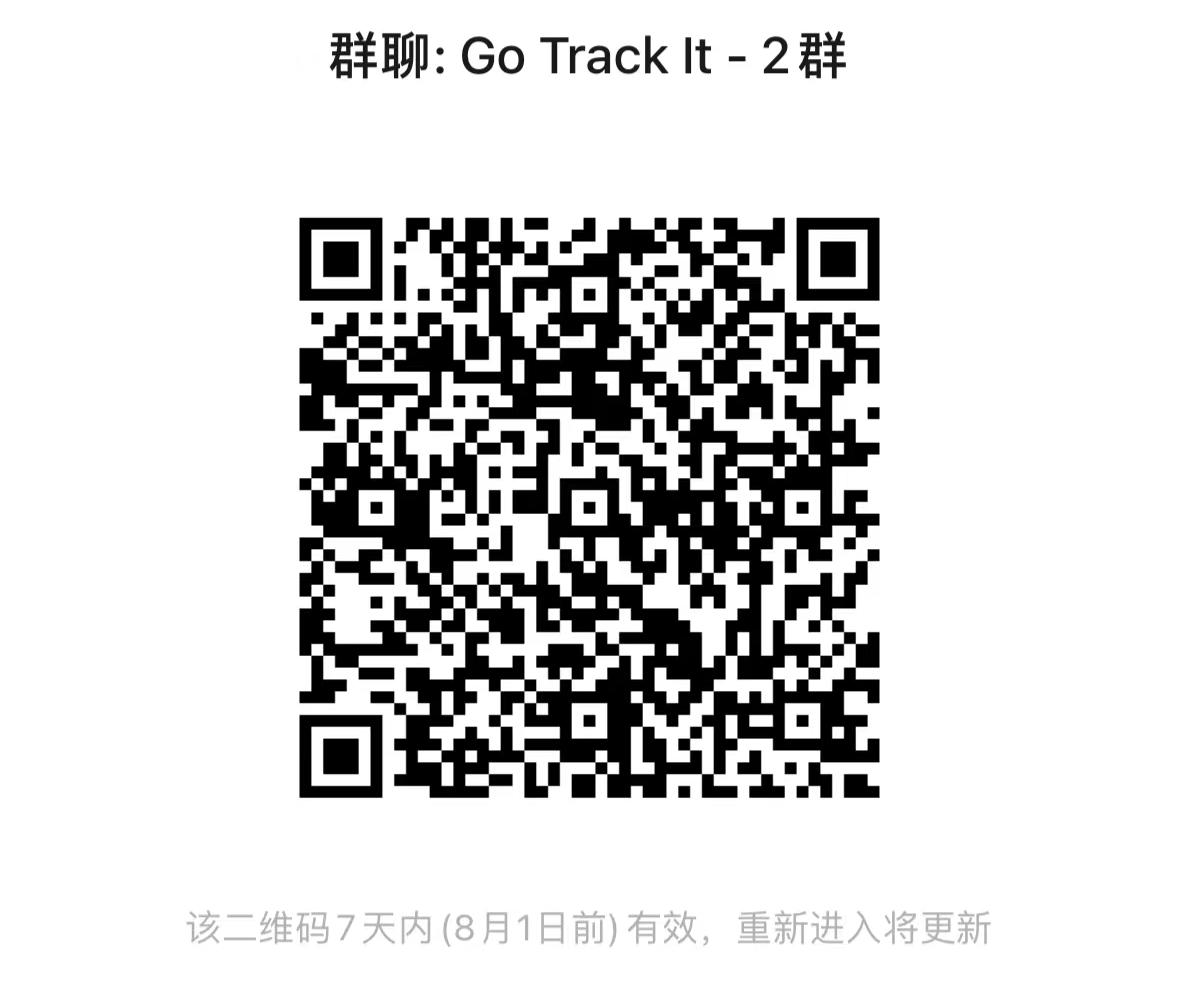
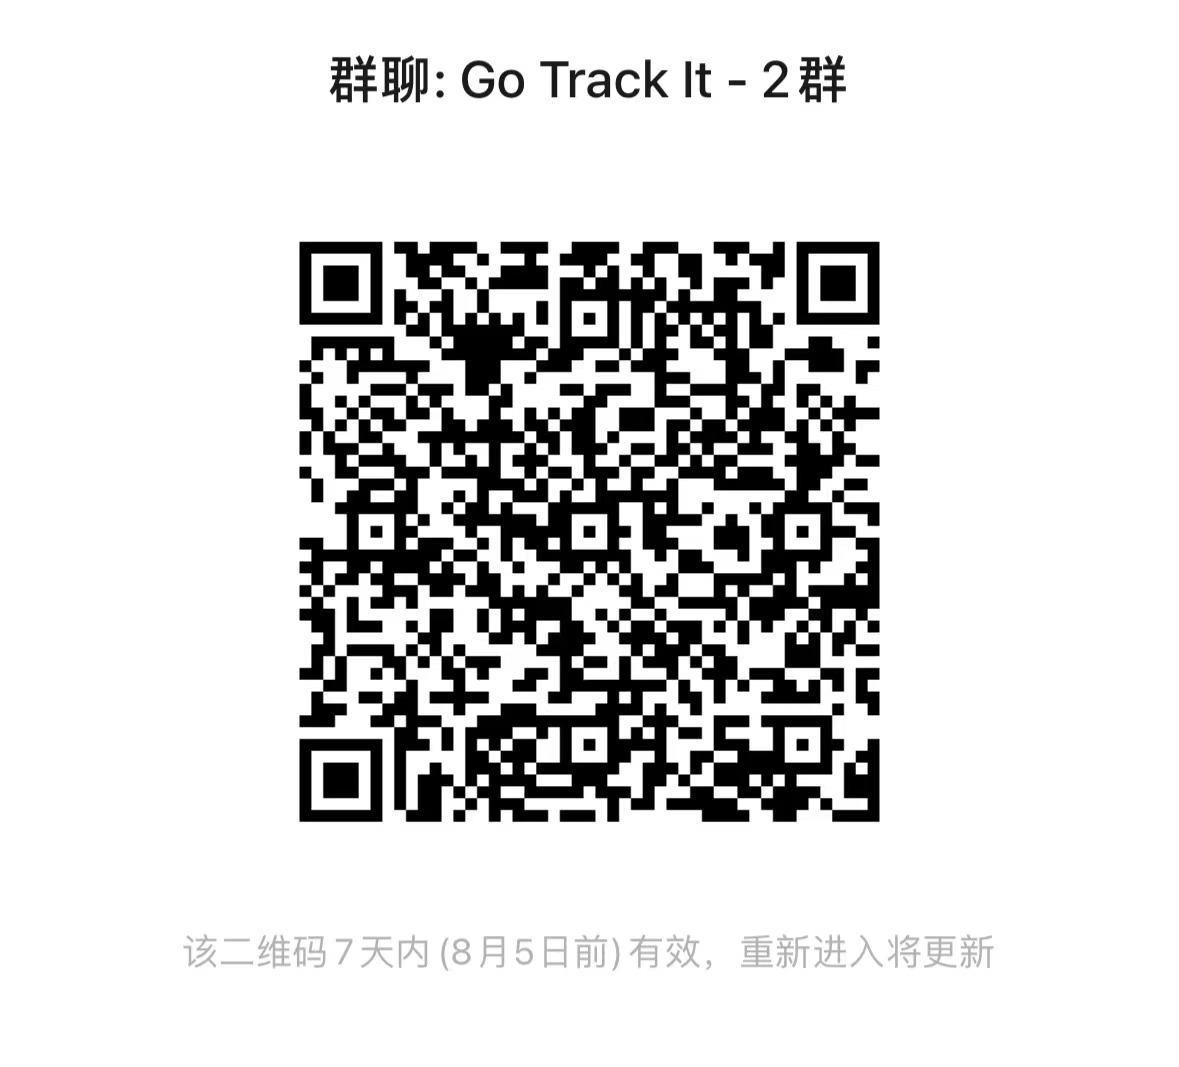
modify docs

Changed region(s): [[0.2443, 0.2119, 0.7634, 0.8174], [0.1527, 0.8779, 0.855, 0.9687], [0.2748, 0.0303, 0.7328, 0.0908]]

diff --git a/README.md b/README.md
@@ -105,9 +105,6 @@
 
 <br>
 
-<div align="center">
-    <img src="docs/_static/images/wxq.jpg" />
-</div>
 
 <div align="center">
     <img src="docs/_static/images/wxq-2.jpg" />
